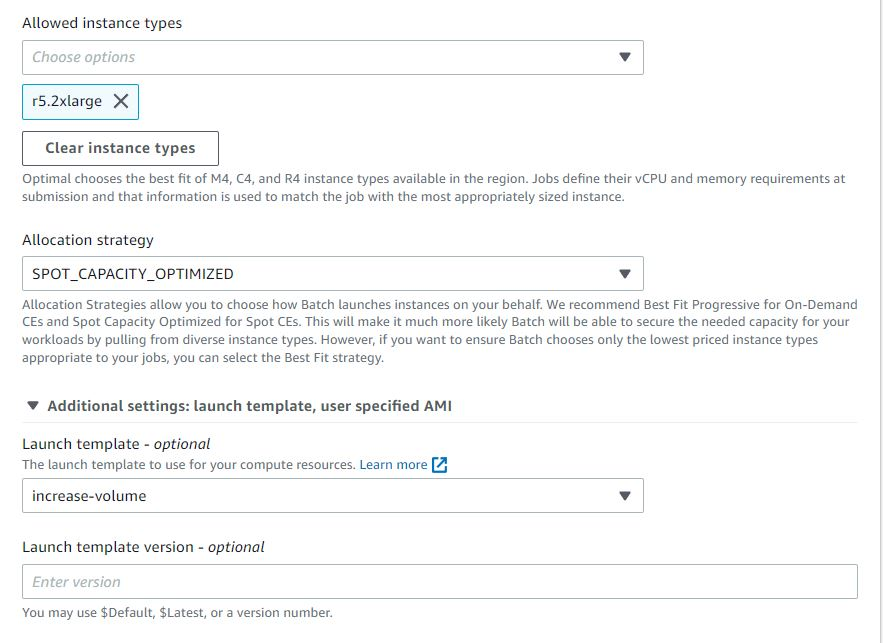
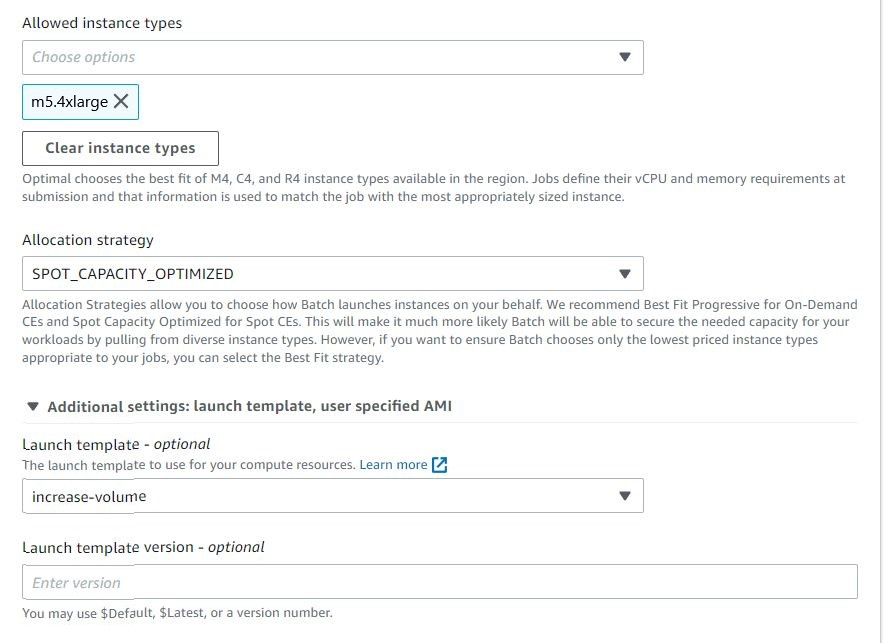
Edit the pigure

diff --git a/docs/4_Batch/BatchEnvironment.md b/docs/4_Batch/BatchEnvironment.md
@@ -38,7 +38,7 @@ In the compute environments page, set your preference of the compute envrioment 
 
 ![Image](../../src/img/Batch/Batch-env3.jpg)
 
-- Select "m5a.4xlarge" in the Allowed instance type because KB require at least 8 Cores and around 32GB memory.
+- Select "m5.4xlarge" in the Allowed instance type because KB require at least 8 Cores and around 32GB memory.
 - Select "SPOT_CAPACITY_OPTIMIZED" in the allocation strategy
 - Select "increase-volume" in the  [launch template](https://juychen.github.io/docs/10_Supplementary/Launchtemp.html). 
  

diff --git a/docs/4_Batch/BatchNextflow.md b/docs/4_Batch/BatchNextflow.md
@@ -52,6 +52,7 @@ Here we would like to depoly another bucket to store the temporary files that AW
 export BUCKET_NAME_TEMP=nextflow-spot-batch-temp-${RANDOM}-$(date +%s)
 aws --region ${AWS_REGION} s3 mb s3://${BUCKET_NAME_TEMP}
 aws s3api put-bucket-tagging --bucket ${BUCKET_NAME_TEMP} --tagging="TagSet=[{Key=nextflow-workshop,Value=true}]"
+echo "BUCKET_NAME_TEMP=${BUCKET_NAME_TEMP}" |tee -a ~/.bashrc 
 echo ${BUCKET_NAME_TEMP}
 ```
 "nextflow-spot-batch-result-14962-1637501981". **Remember the AWS bucket location** again.
